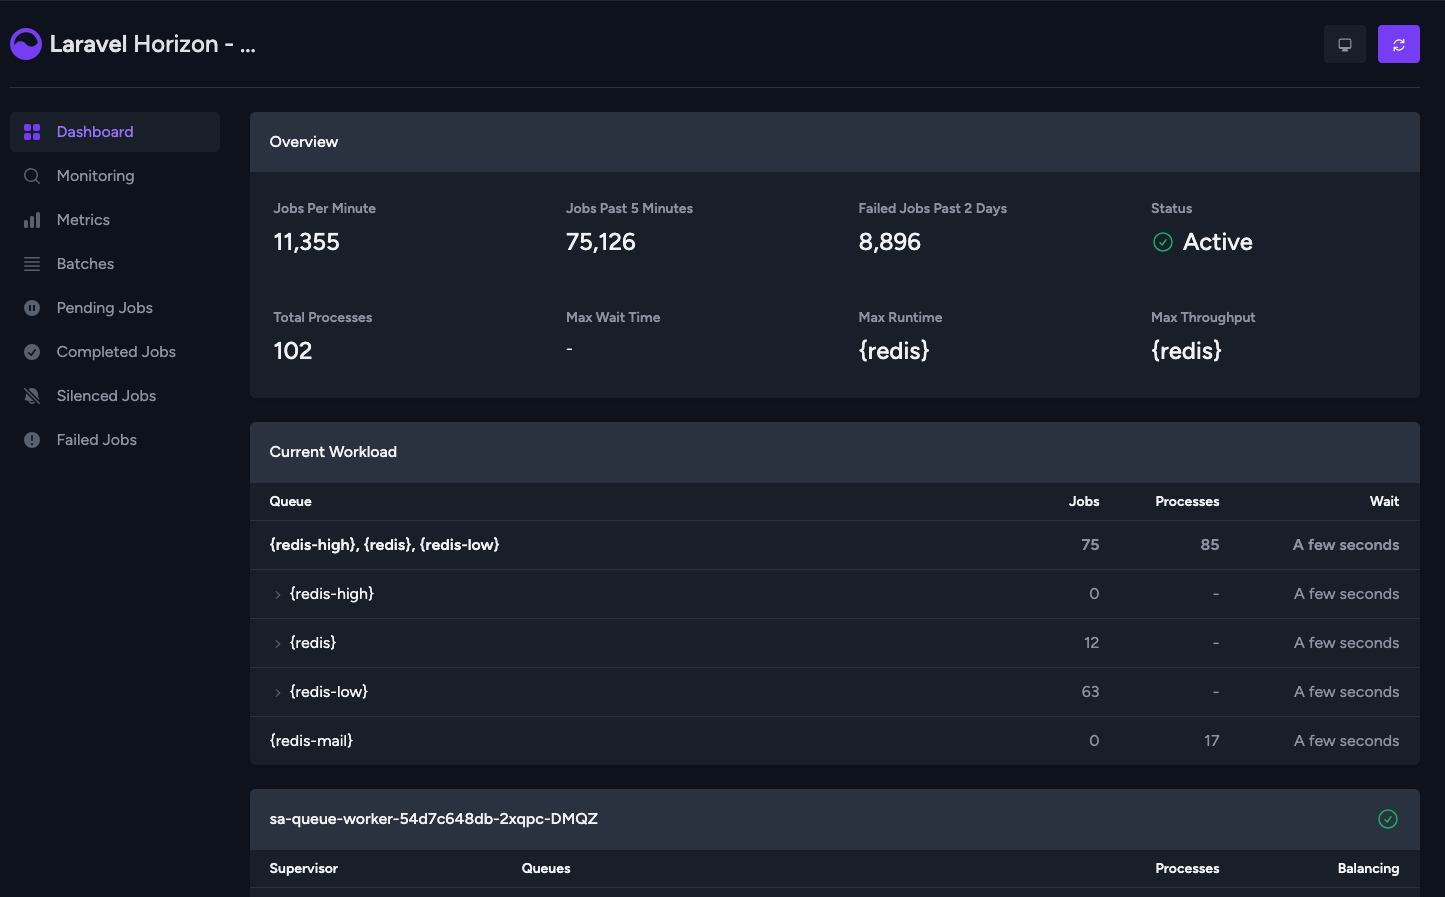
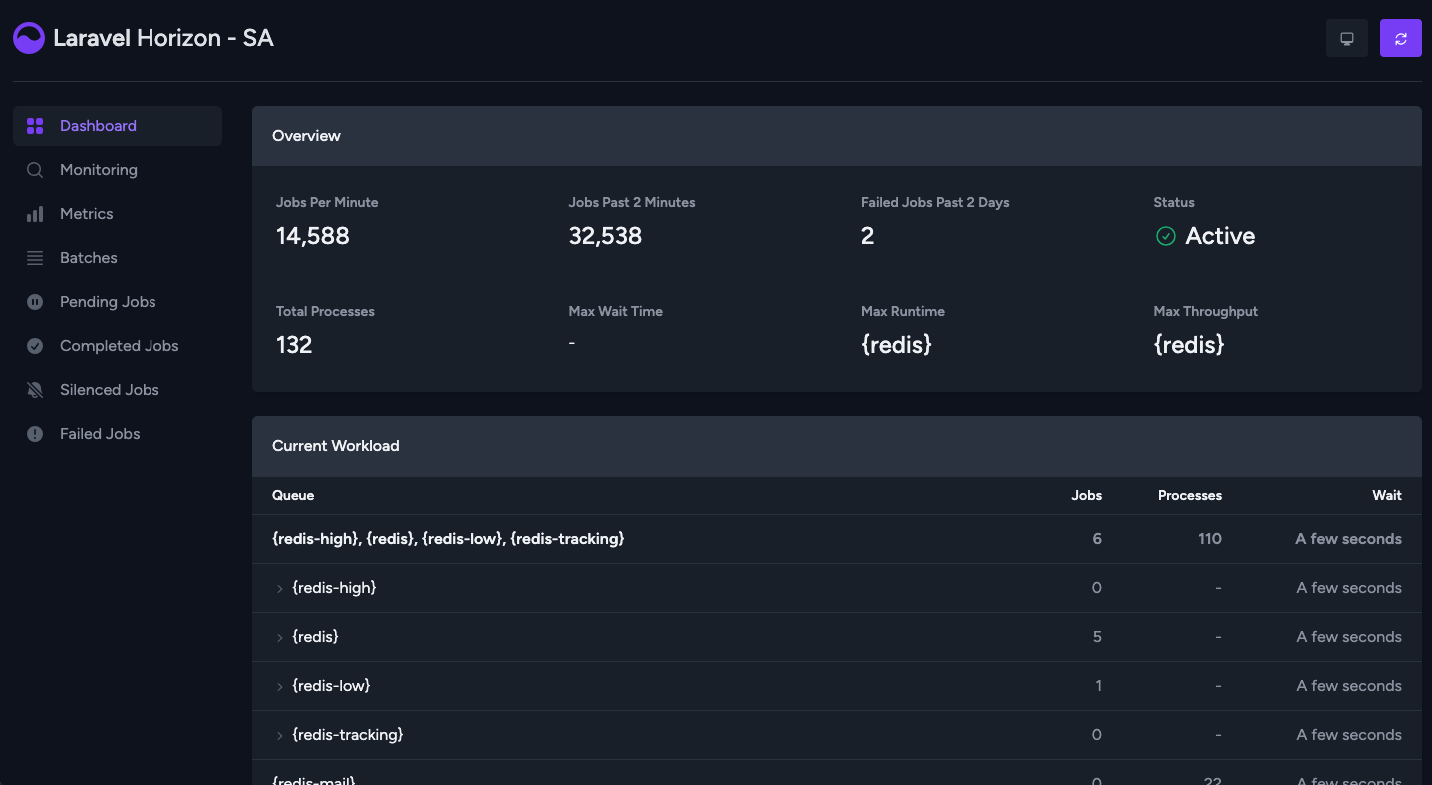
Update screenshot and number of downloads

diff --git a/README.md b/README.md
@@ -1,3 +1,5 @@
+[![Packagist Downloads](https://img.shields.io/packagist/dt/daison/laravel-horizon-cluster)](https://packagist.org/packages/daison/laravel-horizon-cluster/stats)
+
 ![seeking's laravel horizon](sa_prod_screenshot.png)
 
 # Laravel Horizon - Cluster Support
